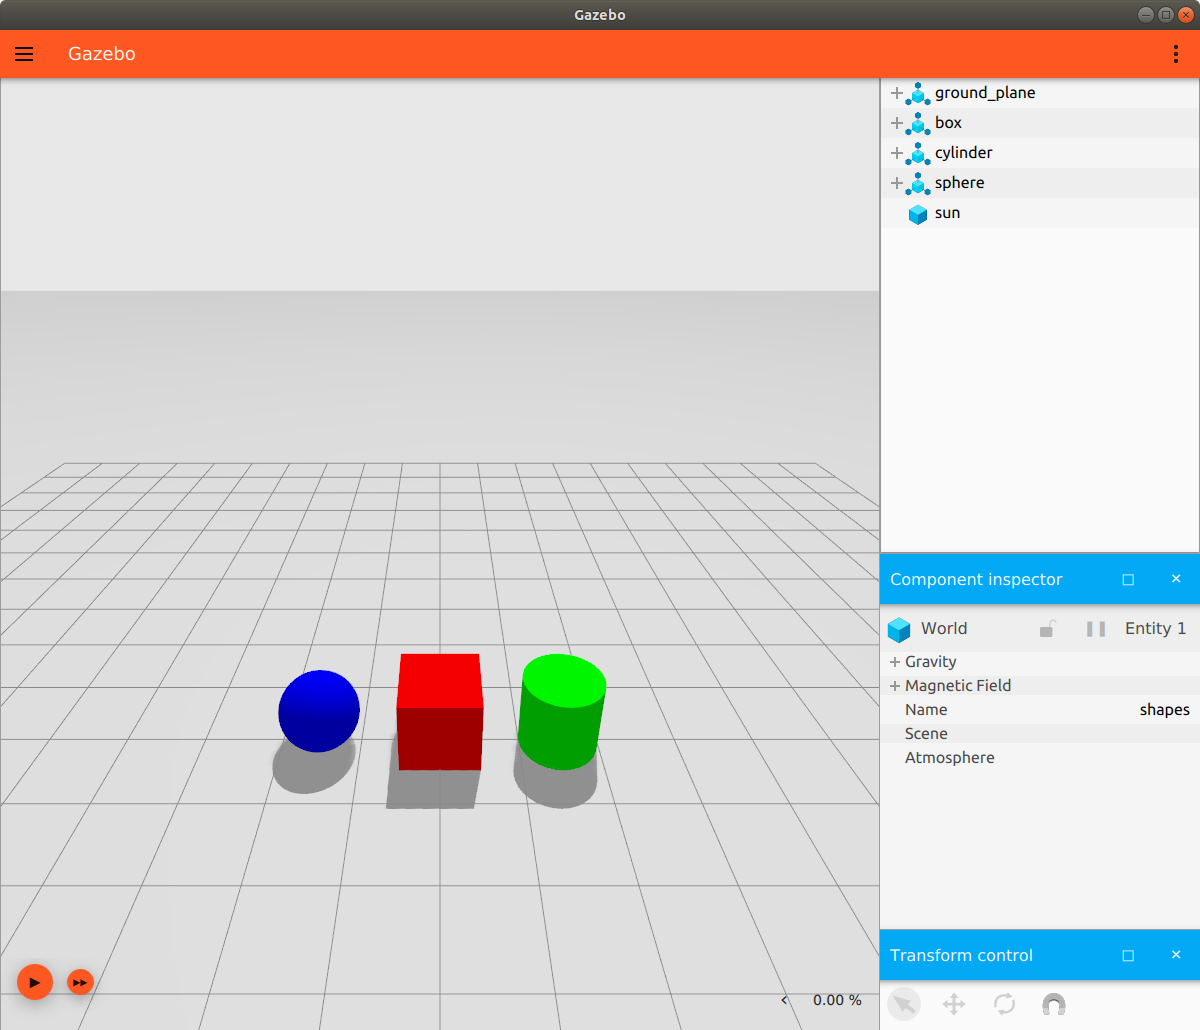
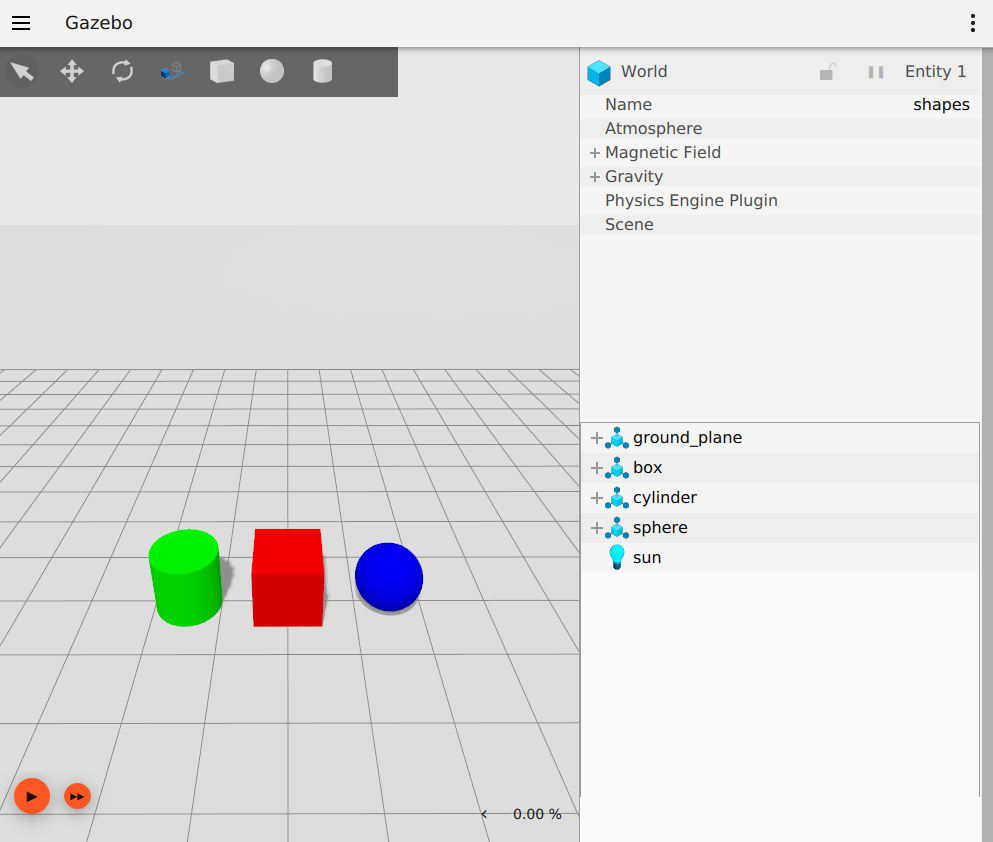
updated screenshots for dome gui

diff --git a/dome/GUI_tutorial.md b/dome/GUI_tutorial.md
@@ -51,8 +51,8 @@ When you select one, its interface will appear in the right panel.
 
 ### The Right Panel
 
-`shapes.sdf` contains three plugins that you see in the right panel upon starting.
-At the top is the Entity Tree, followed by the Component Inspector, and then Transform Control.
+The GUI contains two plugins that you see in the right panel upon starting.
+At the top is the Component Inspector, followed by the Entity Tree.
 
 Everything in a simulation is considered an "entity."
 In `shapes.sdf`, the entities listed are the ground plane, each of the shape models, and the sun.
